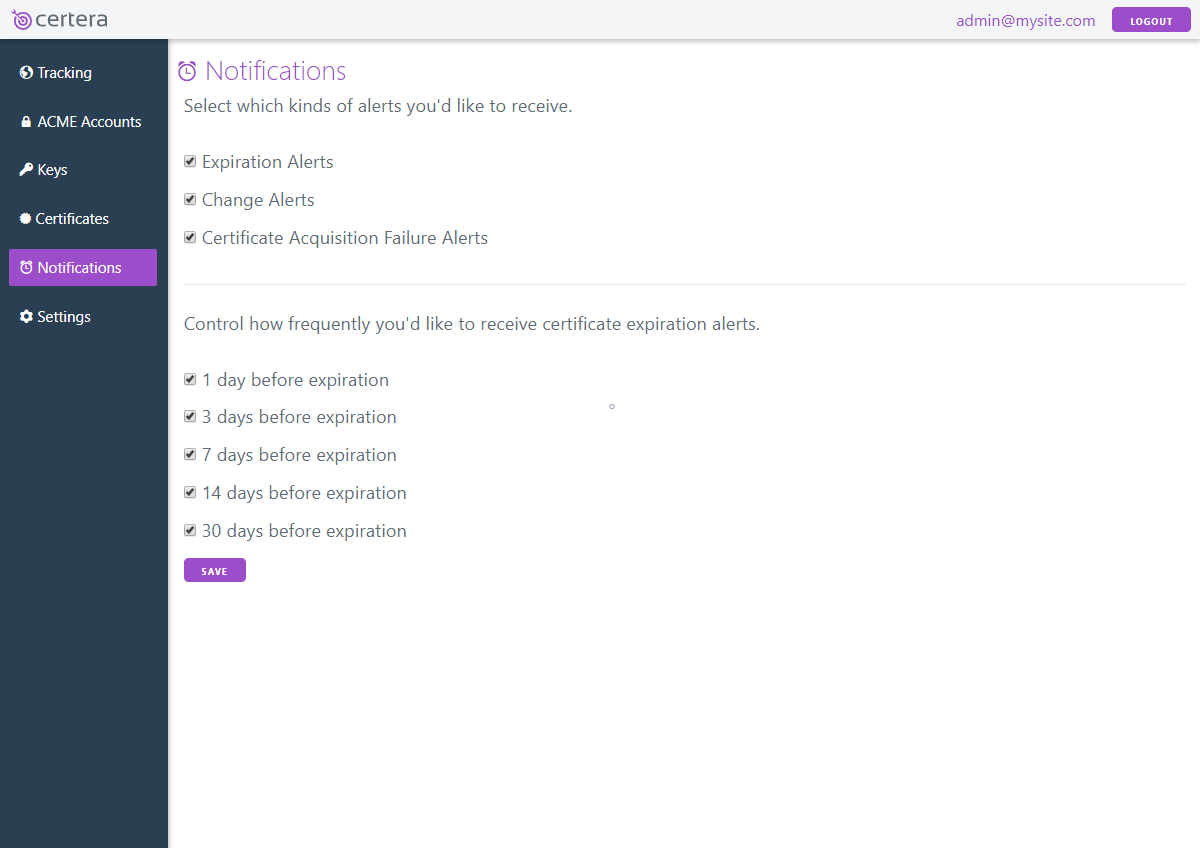
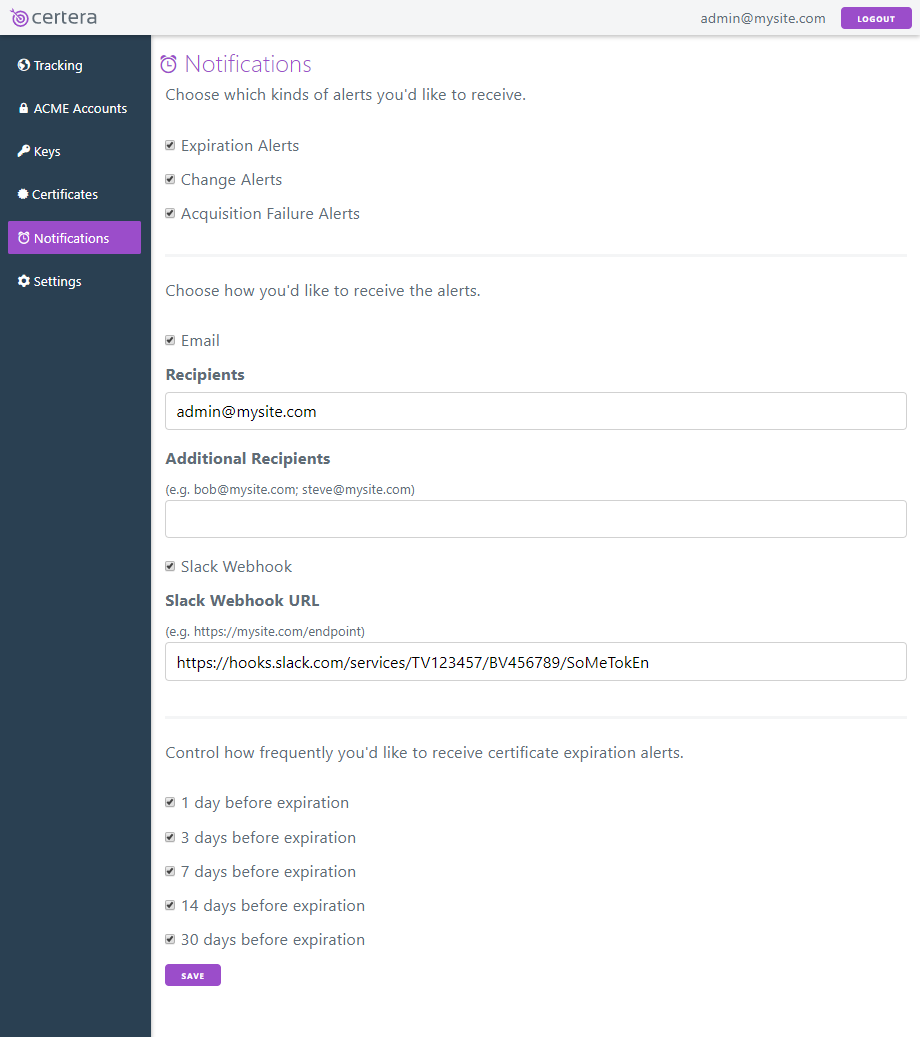
Update: notifications page & text

Changed region(s): [[0.0, 0.0, 1.0, 1.0], [0.0, 0.3679, 0.0913, 0.3986]]

diff --git a/index.html b/index.html
@@ -568,7 +568,7 @@ sudo systemctl start certera.service
 				<a href="images/certificates-create.png"><img class="screenshot" src="images/certificates-create.png" /></a>
 				
 			<h2 id="notifications">Notifications Page</h2>
-				<p>Control what kinds of notifications you'd like to receive from Certera. You must have SMTP configured in order to receive notifications.</p>
+				<p>Control what kinds of notifications you'd like to receive from Certera. Certera can send notifications via Email or Slack. You must have SMTP configured in order to receive Email notifications.</p>
 				<a href="images/notifications.png"><img class="screenshot" src="images/notifications.png" /></a>
 			<h2 id="settings">Settings Page</h2>
 				<p>Shows basic SMTP setting information.</p>
